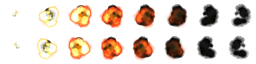
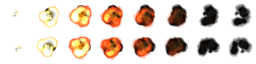
new sheet and new explosion

Changed region(s): [[0.125, 0.5625, 1.0, 0.9375], [0.0312, 0.6562, 0.0938, 0.8125]]

diff --git a/src/explosionBoy/client/AnimationHandler.java b/src/explosionBoy/client/AnimationHandler.java
@@ -11,6 +11,7 @@ public class AnimationHandler {
 	private Image explosionSheet;
 	private Image explosionSheet2;
 	private Image bearSheet;
+	private Image testExplosion;
 	
 	public AnimationHandler() {
 			try {
@@ -18,6 +19,8 @@ public class AnimationHandler {
 				explosionSheet = new Image("res/explosion/explosionSheet.png");
 				explosionSheet2 = new Image("res/explosion/newExplosionSheet.png");
 				bearSheet = new Image("res/bearboy/BearBoySprite.png");
+				testExplosion = new Image("res/explosion/explosionSheetTest.png");
+				
 				
 			} catch (SlickException e) {
 				System.err.println("Could not load main sheet. " + e.getMessage());
@@ -51,18 +54,54 @@ public class AnimationHandler {
 		return bombAnimation;
 	}
 	
-	public Animation getExplosionAnimation(){
+	public Animation getExplosionAnimation(int choice){
 		
-		SpriteSheet spriteSheet;
+		SpriteSheet spriteSheet1;
+		SpriteSheet spriteSheet2;
+		SpriteSheet spriteSheet3;
+		SpriteSheet spriteSheet4;
+		
 		Animation animation1;
+		Animation animation2;
+		Animation animation3;
+		Animation animation4;
 		
-		spriteSheet = new SpriteSheet(explosionSheet2, 32, 32);
-		animation1 = new Animation(spriteSheet, 80);
+		spriteSheet1 = new SpriteSheet(testExplosion.getSubImage(0, 0, 256, 32), 32, 32);
+		spriteSheet2 = new SpriteSheet(testExplosion.getSubImage(0, 0, 256, 32).getFlippedCopy(true, false), 32, 32);
+		spriteSheet3 = new SpriteSheet(testExplosion.getSubImage(0, 32, 256, 32), 32, 32);
+		spriteSheet4 = new SpriteSheet(testExplosion.getSubImage(0, 32, 256, 32).getFlippedCopy(false, true), 32, 32);
+		
+		animation1 = new Animation(spriteSheet1, 50);
+		animation2 = new Animation(spriteSheet2, 50);
+		animation3 = new Animation(spriteSheet3, 50);
+		animation4 = new Animation(spriteSheet4, 50);
 		
 		animation1.setPingPong(false);
 		animation1.setLooping(false);
 		
-		return animation1;
+		animation2.setPingPong(false);
+		animation2.setLooping(false);
+
+		animation3.setPingPong(false);
+		animation3.setLooping(false);
+		
+		animation4.setPingPong(false);
+		animation4.setLooping(false);
+
+		switch (choice) {
+		case 1:
+			return animation1;
+		case 2:
+			return animation2;
+		case 3:
+			return animation3;
+		case 4:
+			return animation4;
+		default:
+			break;
+		}
+		
+		return null;
 	}
 	
 	public Animation getAnimation(Image image, int startPosX, int startPosY, int totalWidth, int totalHeight, boolean flipHorizontal, boolean flipVertical, int tileWidth, int tileHeight, boolean pingpong, boolean looping){

diff --git a/src/explosionBoy/client/Explosion.java b/src/explosionBoy/client/Explosion.java
@@ -1,33 +1,47 @@
 package explosionBoy.client;
 
+import java.util.Random;
+
 import org.newdawn.slick.Animation;
 
 public class Explosion {
 	
 	private float x;
 	private float y;
+	private int randomAnim;
 	
-	private Animation animation;
+	private Random rand = new Random();
+	
+	private Animation animation1;
+	private Animation animation2;
+	private Animation animation3;
+	private Animation animation4;
 	
 	private boolean exploded = false;
 	
 	public Explosion(AnimationHandler handler, int direction, float x, float y){
-		animation = handler.getExplosionAnimation();
+		randomAnim = rand.nextInt(4)+1;
+		System.out.println(randomAnim);
+		
+		animation1 = handler.getExplosionAnimation(randomAnim);
+		animation2 = handler.getExplosionAnimation(2);
+		animation3 = handler.getExplosionAnimation(3);
+		animation4 = handler.getExplosionAnimation(4);
 		this.x = x;
 		this.y = y;
 	}
 	
 	public void explode(){
-		if (animation.isStopped()){
+		if (animation1.isStopped()){
 			exploded = true;
 		}
 	}
 	
 	public void draw(){
 		if (!exploded) {
-			animation.draw(x, y);
+			animation1.draw(x, y);
 		}
-		if (animation.isStopped()){
+		if (animation1.isStopped()){
 			exploded = true;
 		}
 	}
